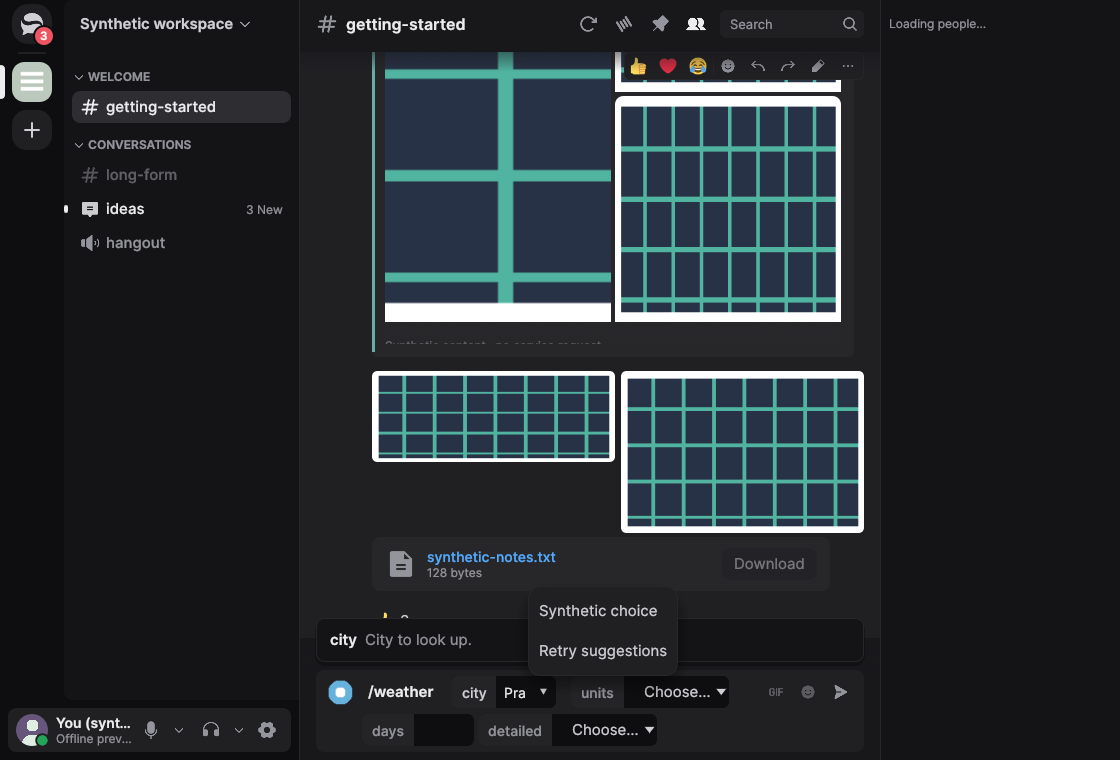
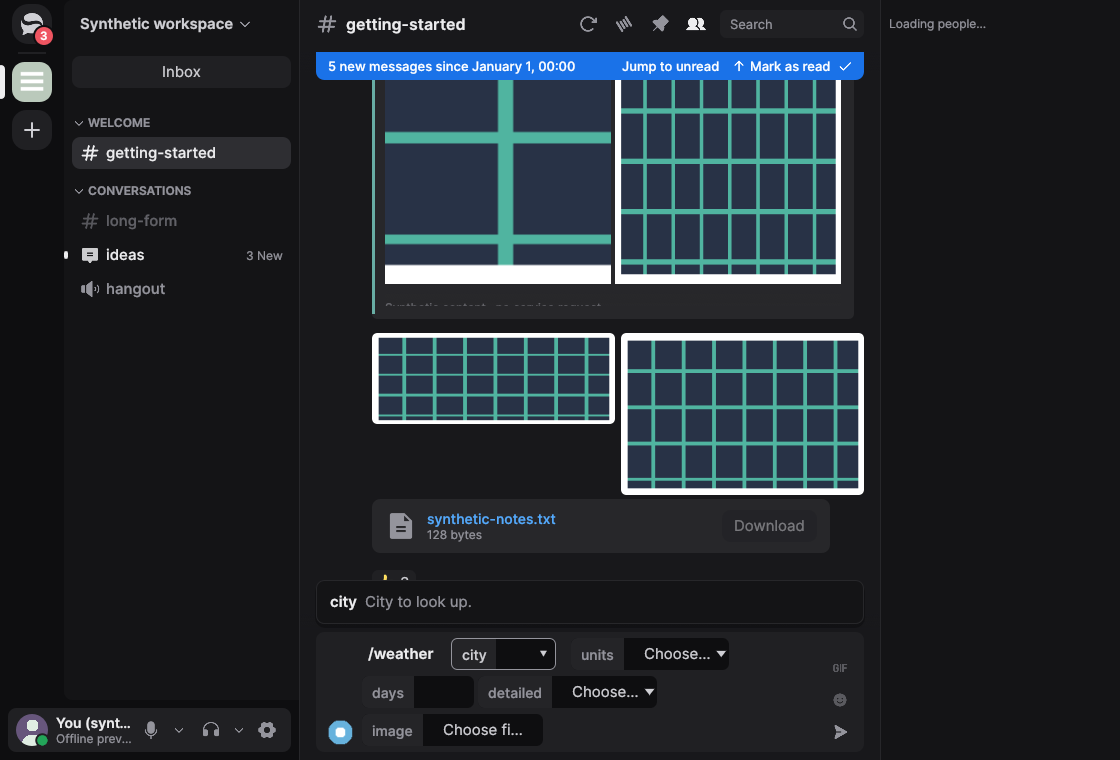
docs(parity): record current native evidence and verification

diff --git a/docs/pr-evidence/application-commands/README.md b/docs/pr-evidence/application-commands/README.md
@@ -1,0 +1,11 @@
+# Current synthetic native evidence — October 17, 2026
+
+Before: verified clean commands baseline `1d47c3db714fcc6c14bd1a624c8e3b4fbd7c8267`, which already includes earlier autocomplete and Apps-menu work. It is not fork main or the nightly. After: combined feature build `80350d0fa04d87caf6d9c2d359572f12b771e9ae`. The source branches remain separate PRs; these captures do not establish an isolated PR build or live Discord acceptance. Both use Rust 1.98.1, `profile_preview --demo`, dev/debug=0, the same SDK, wgpu, Xvfb scale 1, dark mode and 1120 × 760. The adapter was not recorded. Native framebuffer callbacks save unedited PNGs; each selected image was inspected.
+
+The same `/weather` form gains an optional synthetic attachment argument. This fixture extension is intentional. Its prior arguments remain unchanged. File-transfer, stale-scope and keyboard tests run separately.
+
+## Combined native verification
+
+The combined feature tree passed `cargo xtask check` at `0e7c26e3`: **1,919 tests passed**, 32 tests/examples ignored, strict workspace Clippy, formatting, the no-development-data application check and policy checks passed. Demo all-target Clippy and the native preview build also pass after demo-only follow-ups. Login-handoff, cached-xtask workspace, license checks for both lockfiles, six license-policy fixtures, the release replay and the 120-second soak pass. Bounded ASan fuzz smoke completed 128,905 decode and 4,340 state-transition runs without a finding. These checks use synthetic data and local peers, with no Discord session or physical audio/capture.
+
+The combined release reducer comparison at `eee7fd75` uses published nightly `v1.0.0-nightly.20261014.58` (`3a4bf8d`) and unchanged fork main `f9e39f7`: one warmup and five rotated samples, Rust 1.98.1, opt-level 3, thin LTO, one codegen unit, panic abort and stripped symbols. Native build threads were kept off sampling CPU 0. Reducer medians were 71.035 / 74.009 / 78.581 ms (nightly / fork / combined): **+10.6% / +6.2%**. Wide-channel medians were 117.102 / 124.630 / 128.122 ms: **+9.4% / +2.8%**, with overlapping ranges. Cause is unisolated; this measures all sibling features together, not this PR alone, UI/media throughput or process RSS. Current-head per-OS CI remains separate.
